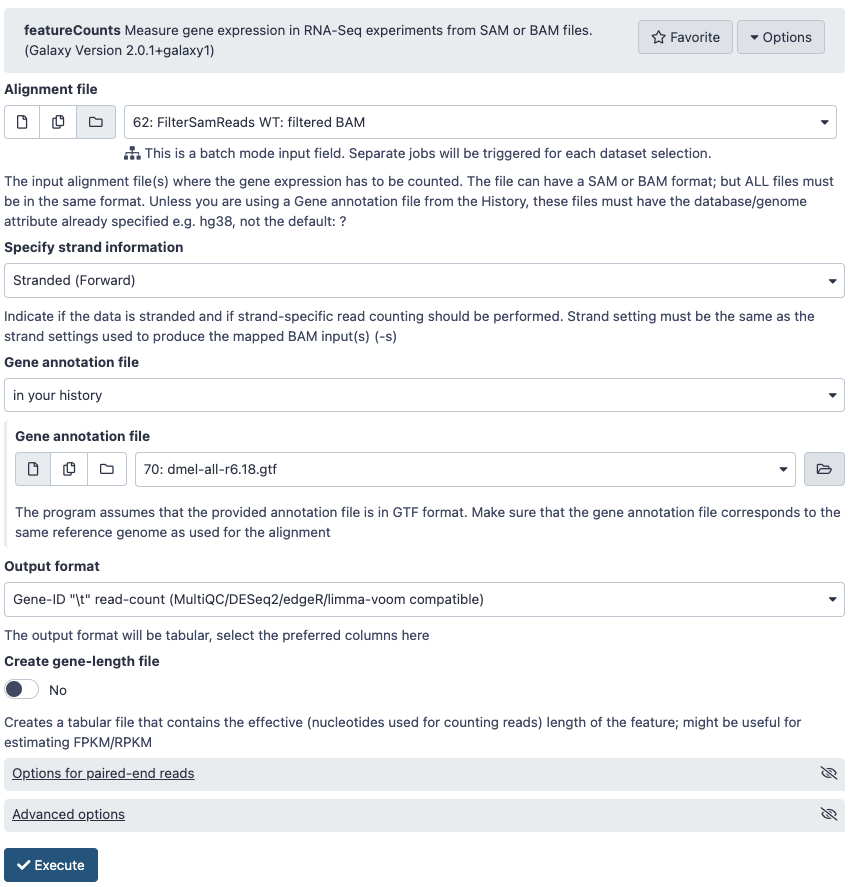
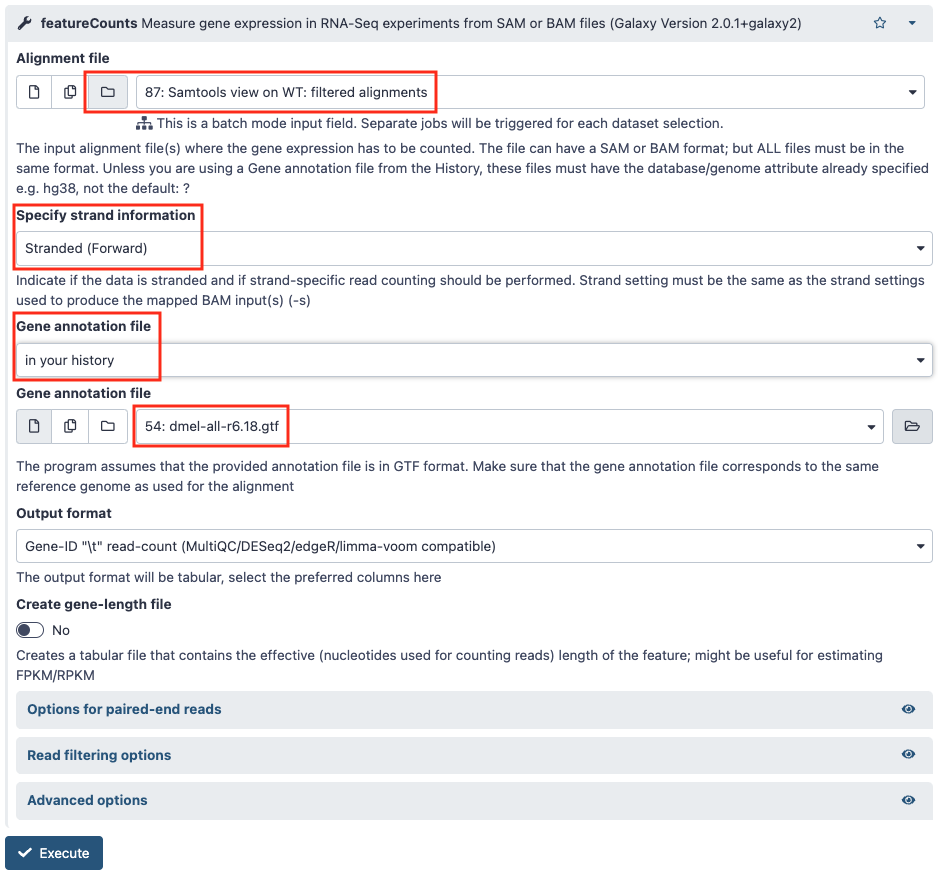
Tutorial update

diff --git a/docs/rnaseq.md b/docs/rnaseq.md
@@ -33,15 +33,35 @@ Comme dans la partie sur les [petits ARN](./srna.md#controle-qualite-des-lecture
 
 Vous allez utiliser bowtie pour réaliser l’alignement des lectures obtenues sur le génome de la drosophile mais le but ici est d’obtenir plus de lectures qui s’alignent car les fragments sont plus longs que pour les petits ARN.
 
+[Documentation du logiciel bowtie](http://bowtie-bio.sourceforge.net/manual.shtml)
+
 !!! hint "Question"
 
-	- Quels sont les paramètres et les options que vous allez choisir ?
+	- Quels sont les paramètres et les options que vous choisiriez ?
 
-Une fois que vous avez déterminé les options à utiliser dans votre ligne de commande, lancez l’alignement de votre fichier fastq. Nous allons utiliser l’outil ***Map with Bowtie for Illumina*** sur les données brutes en alignant les lectures sur le génome de référence de la drosophile.
+
+### Test des paramètres d'alignement
+
+Ouvrez le [tableau Google Sheet](https://docs.google.com/spreadsheets/d/1Cxe_UCjYfFXXRGcaMgyTm_m6uJrKGDy_UYKGS4K-EZM/) dans une nouvelle fenêtre de votre navigateur. Rendez-vous dans l'onglet "Test alignement RNAseq".
+
+Choisissez vos paramètres de mapping **à l'exclusion de -n ou -v avec 3 mismatch, et de l'option -a**. Sélectionnez des paramètres différents de ceux des autres. Indiquez les sur la ligne du tableau qui commence par votre prénom. 
+
+Récupérez le fichier fastq de l'échantillon *SF2* depuis l'historique "RNA dataset". Reportez vous aux [annexes](./annexes.md) pour savoir comment copier les données entre historiques.
+
+Nous allons utiliser l’outil ***Map with Bowtie for Illumina*** sur les données brutes de l'échantillon *SF2* en alignant les lectures sur le génome de référence de la drosophile pour tester différents paramètres d'alignement.
 
 En cas de soucis d'affichage des données en entrée de l'outil Bowtie, reportez vous aux [annexes](./annexes.md) pour savoir comment changer le type des données.
 
-![Alignement avec Bowtie](img/rna/bowtie.png "Alignement avec Bowtie")
+![Alignement avec Bowtie](img/rna/bowtie1.png "Alignement avec Bowtie")
+
+Une fois l'alignement effectué, indiquez le nombre et le pourcentage de lectures alignées et le temps mis par le programme à s'exécuter dans le [tableau partagé](https://docs.google.com/spreadsheets/d/1Cxe_UCjYfFXXRGcaMgyTm_m6uJrKGDy_UYKGS4K-EZM/).
+
+
+### Alignements des lectures des réplicats SF et WT
+
+Maintenant que vous avez déterminé les options qui vous paraissent les plus pertinentes à utiliser, lancez l’alignement de votre collection de fichier fastq à l'aide de l’outil ***Map with Bowtie for Illumina***.
+
+![Alignement avec Bowtie](img/rna/bowtie2.png "Alignement avec Bowtie")
 
 !!! hint "Questions"
 
@@ -52,25 +72,9 @@ En cas de soucis d'affichage des données en entrée de l'outil Bowtie, reportez
 --------------------------------------------------------------------------------
 ## Conversion des fichiers SAM
 
-Vous allez effectuer la conversion des fichiers SAM en BAM en éliminant les lectures qui ne se sont pas alignées, puis trier les alignements suivant les coordonnées chromosomiques du génome de référence.
+Vous allez effectuer la conversion des fichiers SAM en BAM en éliminant les lectures qui ne se sont pas alignées, puis trier les alignements suivant les coordonnées chromosomiques du génome de référence. Pour cela vous allez utiliser l’outil ***Samtools view***.
 
-D'abord il faut récupérer le fasta du génome de la *drosophile* dans l'historique actuel. Reportez vous aux [annexes](./annexes.md) pour savoir comment copier les données entre historiques.
-
-![Récupération du génome de la drosophile](img/rna/copy_genome.png "Récupération du génome de la drosophile")
-
-Vous allez ensuite convertir le SAM en BAM et trier le fichier BAM en utilisant l’outil ***SAM-to-BAM***.
-
-![Conversion du SAM en BAM](img/rna/sam-to-bam.png "Conversion du SAM en BAM")
-
-<!---
-Puis enfin le filtrage pour supprimer du fichier BAM les lectures qui n’ont pas été alignées et ainsi réduire la taille du fichier. Pour cela on utilise l’outil ***FilterSamReads***.
-
-![Filtrage BAM](img/rna/filter_bam.png "Filtrage BAM")
--->
-
-Puis enfin le filtrage pour supprimer du fichier BAM les lectures qui n’ont pas été alignées et ainsi réduire la taille du fichier. Pour cela on utilise l’outil ***Filter SAM or BAM***.
-
-![Filtrage BAM](img/rna/filter_bam2.png "Filtrage BAM")
+![Conversion et filtrage SAM](img/rna/sam-filter-bam.png "Conversion et filtrage SAM")
 
 
 --------------------------------------------------------------------------------
@@ -113,6 +117,9 @@ Vous devez indiquer à l’outil quels sont les échantillons à rattacher à ch
 	- Quel est le nombre de gènes différentiellement exprimés que vous obtenez ?
 	- L’étape d’analyse différentielle s’est elle bien déroulée ?
 
+
+### Visualisation sous forme de volcano plot
+
 Pour aller plus loin dans la visualisation vous allez réaliser un volcano plot sur vos résultats grâce à l'outil ***Volcano Plot***.
 Attention à bien faire correspondre les colonnes demandées au format de sortie de DESeq2.
 
@@ -121,3 +128,5 @@ Attention à bien faire correspondre les colonnes demandées au format de sortie
 ![Volcano plot](img/rna/volcano_result.png "Volcano result")
 
 Un [tutoriel](https://training.galaxyproject.org/training-material/topics/transcriptomics/tutorials/rna-seq-viz-with-volcanoplot/tutorial.html) très bien fait vous permet d'aller plus loin avec cet outil.
+
+Par exemple voici comment visualiser sur le volcano plot la liste des gènes cibles des amorces que vous avez utilisés en 

diff --git a/docs/igv.md b/docs/igv.md
@@ -20,15 +20,15 @@ Les fichiers à télécharger sont les suivants :
 
 - Le génome de la *drosophile* au format fasta : dmel-MAIN-chromosome-r6.18.fasta
 - Le fichier d'annotation au format gtf : dmel-all-r6.18.gtf
-- Les fichiers baml filtrés et leurs index d'un des fichiers SF et d'un des fichiers WT : SF1_filtered.bam, SF1_filtered.bai, WT1_filtered.bam, WT1_filtered.bai
-
-Vous pouvez renommer les fichiers fasta et gtf pour leur donner des noms plus courts (exemple : dmel-r6.18.xxx). Ils seront plus lisibles dans IGV.
+- Les fichiers bam filtrés et leurs index d'un des fichiers SF et d'un des fichiers WT : SF1_filtered.bam, SF1_filtered.bai, WT1_filtered.bam, WT1_filtered.bai
 
 !!! danger "Attention"
 
 	Pour ces derniers les deux fichiers sont dans le même jeu de données. Il faut bien récupérer les deux, le jeux de données (.bam) et l'index (.bai).
 
 ![Télécharger les fichiers bam](img/igv/galaxy_download.png "Télécharger les fichiers bam")
+
+Vous pouvez renommer les fichiers fasta et gtf pour leur donner des noms plus courts (exemple : dmel-r6.18.xxx). Ils seront plus lisibles dans IGV.
 
 
 --------------------------------------------------------------------------------

diff --git a/docs/annexes.md b/docs/annexes.md
@@ -4,16 +4,6 @@ Cette page regroupe différentes solutions utilisées dans Galaxy au cours des t
 
 
 --------------------------------------------------------------------------------
-## L'outil ne s'affiche pas dans le menu
-
-Il arrive que l'outil que l'on veut utiliser dans Galaxy ne s'affiche pas. Pour cela il faut relancer le serveur Galaxy. Cela s'effectue dans la console après être passé en mode "root" avec le code suivant :
-
-`supervisorctl restart galaxy:`
-
-![Redémarrer le serveur Galaxy](img/annexes/restart_galaxy.png "Redémarrer le serveur Galaxy")
-
-
---------------------------------------------------------------------------------
 ## Modifier le type des données
 
 Il peut arriver qu'un fichier, pourtant présent dans votre historique, ne soit pas visible en entrée d'un outil Galaxy. Par exemple il peut arriver que le fichier fastq que vous avez chargé dans votre historique n’apparait pas comme disponible dans l’outil Bowtie.
